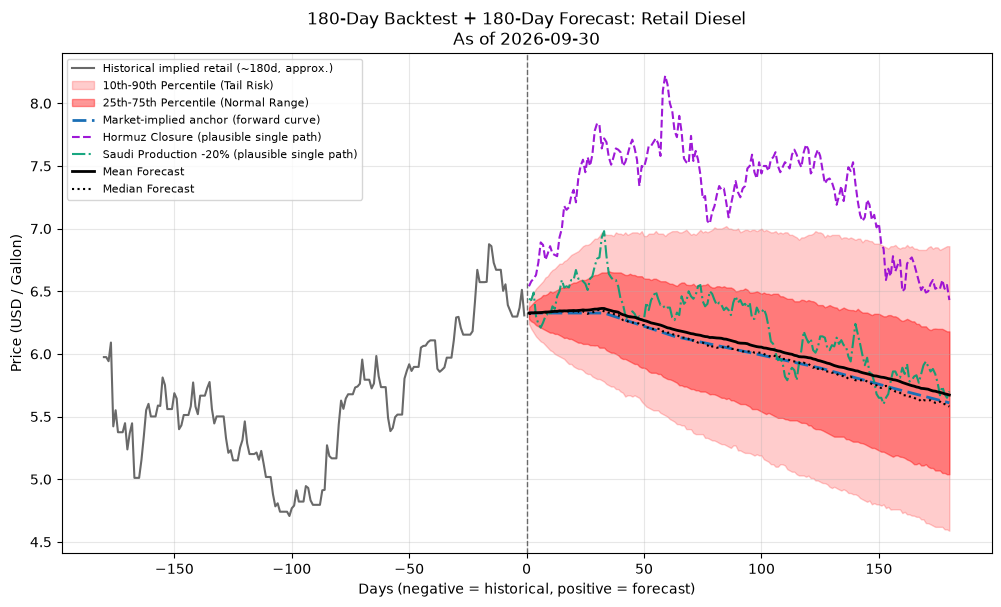
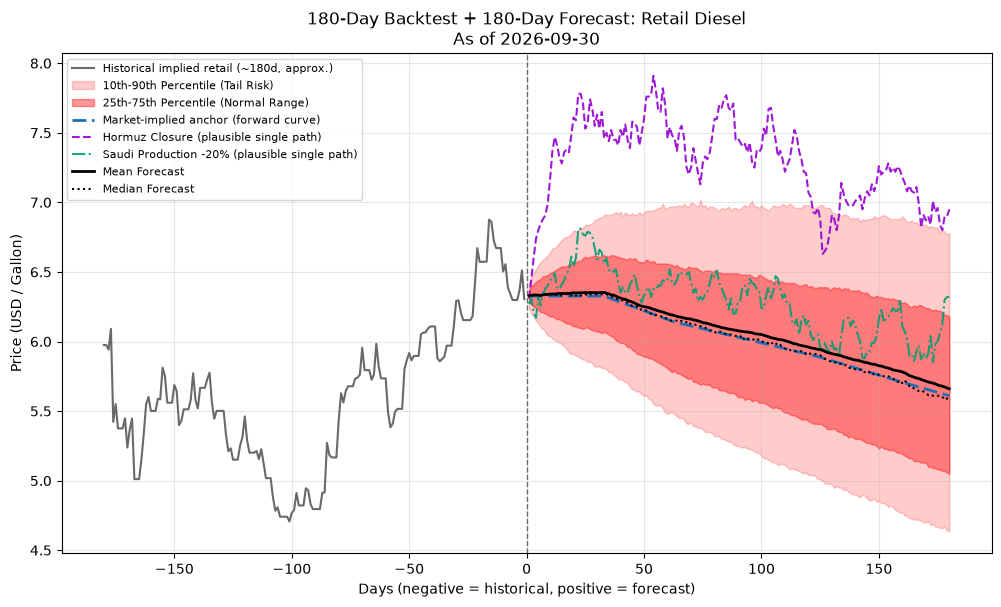
Regenerate charts/report with more distinct scenario palette

diff --git a/oil_market_outlook.md b/oil_market_outlook.md
@@ -5,31 +5,31 @@
 
 ## Executive Summary
 
-Under current calibrated conditions, the model's base-case median retail gasoline price reaches **$4.30/gal** 180 days out (10th-90th percentile range $3.48-$5.42). Across the six stress scenarios modeled below, the most bullish case is **Combined Shock: Hormuz Closure + Saudi Cut**, which pushes the day-180 median to $5.71/gal (+32.8% vs. base), while **Iran Sanctions Lifted** offers the most relief, at $4.08/gal (-5.1% vs. base).
+Under current calibrated conditions, the model's base-case median retail gasoline price reaches **$4.32/gal** 180 days out (10th-90th percentile range $3.50-$5.42). Across the six stress scenarios modeled below, the most bullish case is **Combined Shock: Hormuz Closure + Saudi Cut**, which pushes the day-180 median to $5.68/gal (+31.5% vs. base), while **Iran Sanctions Lifted** offers the most relief, at $4.04/gal (-6.5% vs. base).
 
 ## Scenario Summary Table (Gasoline)
 
 | Scenario | Day 30 | Day 90 | Day 180 | Day 180 10th-90th pct. | vs. Base |
 |---|---|---|---|---|---|
-| Base Case | $4.62 | $4.28 | $4.30 | $3.48-$5.42 | - |
-| Hormuz Closure | $6.10 | $5.65 | $5.49 | $4.17-$7.67 | +27.6% |
-| Hormuz De-Risked | $4.54 | $4.17 | $4.22 | $3.43-$5.29 | -1.9% |
-| Saudi Production -20% | $4.84 | $4.49 | $4.50 | $3.59-$5.78 | +4.7% |
-| Iran Sanctions Lifted | $4.34 | $4.04 | $4.08 | $3.34-$5.13 | -5.1% |
-| US Shale Surge | $4.49 | $4.14 | $4.20 | $3.40-$5.30 | -2.3% |
-| Combined Shock: Hormuz Closure + Saudi Cut | $6.31 | $5.83 | $5.71 | $4.28-$8.16 | +32.8% |
+| Base Case | $4.62 | $4.26 | $4.32 | $3.50-$5.42 | - |
+| Hormuz Closure | $6.10 | $5.70 | $5.54 | $4.26-$7.85 | +28.4% |
+| Hormuz De-Risked | $4.52 | $4.16 | $4.19 | $3.42-$5.21 | -3.0% |
+| Saudi Production -20% | $4.85 | $4.46 | $4.46 | $3.58-$5.81 | +3.4% |
+| Iran Sanctions Lifted | $4.33 | $3.99 | $4.04 | $3.31-$5.17 | -6.5% |
+| US Shale Surge | $4.49 | $4.16 | $4.21 | $3.41-$5.36 | -2.5% |
+| Combined Shock: Hormuz Closure + Saudi Cut | $6.29 | $5.82 | $5.68 | $4.31-$8.13 | +31.5% |
 
 ## Scenario Summary Table (Diesel)
 
 | Scenario | Day 30 | Day 60 | Day 90 | Day 180 |
 |---|---|---|---|---|
-| Base Case | $6.35 | $6.17 | $6.03 | $5.58 |
-| Hormuz Closure | $7.80 | $7.54 | $7.36 | $6.75 |
-| Hormuz De-Risked | $6.25 | $6.06 | $5.93 | $5.46 |
-| Saudi Production -20% | $6.56 | $6.38 | $6.27 | $5.75 |
-| Iran Sanctions Lifted | $6.07 | $5.90 | $5.79 | $5.35 |
-| US Shale Surge | $6.21 | $6.04 | $5.91 | $5.45 |
-| Combined Shock: Hormuz Closure + Saudi Cut | $8.04 | $7.83 | $7.61 | $7.04 |
+| Base Case | $6.34 | $6.16 | $6.04 | $5.58 |
+| Hormuz Closure | $7.80 | $7.60 | $7.42 | $6.83 |
+| Hormuz De-Risked | $6.23 | $6.04 | $5.89 | $5.40 |
+| Saudi Production -20% | $6.56 | $6.36 | $6.24 | $5.79 |
+| Iran Sanctions Lifted | $6.05 | $5.89 | $5.76 | $5.30 |
+| US Shale Surge | $6.21 | $6.03 | $5.91 | $5.45 |
+| Combined Shock: Hormuz Closure + Saudi Cut | $8.02 | $7.81 | $7.61 | $6.95 |
 
 ## Scenario Detail
 
@@ -37,43 +37,43 @@ Under current calibrated conditions, the model's base-case median retail gasolin
 
 Current calibrated market conditions, including the manually-reviewed disruption_severity.json blend toward current chokepoint/freight conditions (see Methodology); no additional policy or geopolitical shock applied on top.
 
-Day-180 median: **$4.30/gal** gasoline (base case), $5.58/gal diesel.
+Day-180 median: **$4.32/gal** gasoline (base case), $5.58/gal diesel.
 
 ### Hormuz Closure
 
 Strait of Hormuz effectively shut: roughly 55% of its normal throughput is assumed offline, chokepoint disruption frequency quadruples, and the war-risk shipping premium triples.
 
-Day-180 median: **$5.49/gal** gasoline (+27.6% vs. base), $6.75/gal diesel.
+Day-180 median: **$5.54/gal** gasoline (+28.4% vs. base), $6.83/gal diesel.
 
 ### Hormuz De-Risked
 
 Geopolitical tension around the strait fully unwinds: disruption frequency falls to a fifth of baseline and the war-risk premium halves, with no direct change to physical supply.
 
-Day-180 median: **$4.22/gal** gasoline (-1.9% vs. base), $5.46/gal diesel.
+Day-180 median: **$4.19/gal** gasoline (-3.0% vs. base), $5.40/gal diesel.
 
 ### Saudi Production -20%
 
 Saudi Arabia cuts output and spare capacity by 20%, e.g. an OPEC+ supply-discipline shock.
 
-Day-180 median: **$4.50/gal** gasoline (+4.7% vs. base), $5.75/gal diesel.
+Day-180 median: **$4.46/gal** gasoline (+3.4% vs. base), $5.79/gal diesel.
 
 ### Iran Sanctions Lifted
 
 Sanctions are lifted, letting Iranian output ramp toward a materially higher production ceiling.
 
-Day-180 median: **$4.08/gal** gasoline (-5.1% vs. base), $5.35/gal diesel.
+Day-180 median: **$4.04/gal** gasoline (-6.5% vs. base), $5.30/gal diesel.
 
 ### US Shale Surge
 
 US shale operators ramp drilling activity, lifting both current output and spare capacity.
 
-Day-180 median: **$4.20/gal** gasoline (-2.3% vs. base), $5.45/gal diesel.
+Day-180 median: **$4.21/gal** gasoline (-2.5% vs. base), $5.45/gal diesel.
 
 ### Combined Shock: Hormuz Closure + Saudi Cut
 
 A simultaneous Hormuz closure and 20% Saudi production cut - a tail-risk stack of the two largest supply-side scenarios.
 
-Day-180 median: **$5.71/gal** gasoline (+32.8% vs. base), $7.04/gal diesel.
+Day-180 median: **$5.68/gal** gasoline (+31.5% vs. base), $6.95/gal diesel.
 
 ## Charts
 
